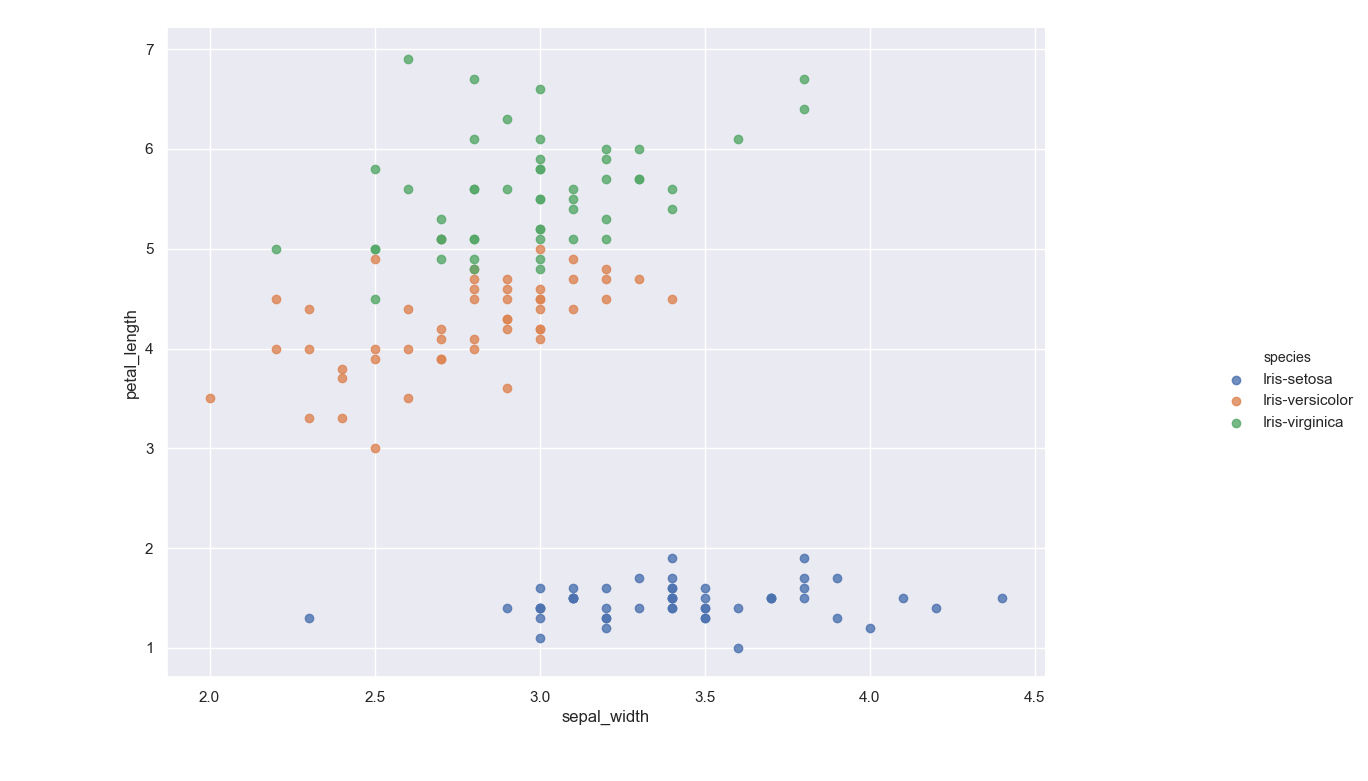
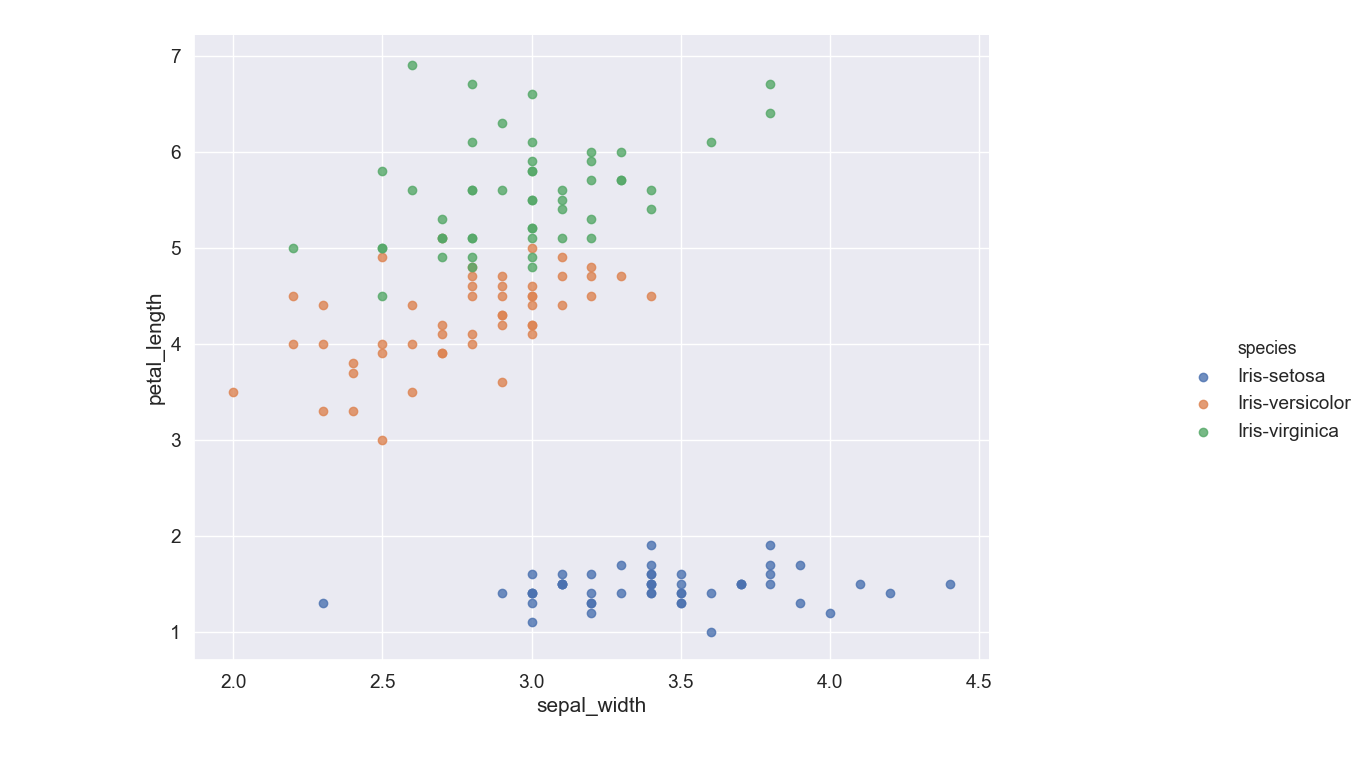
change label font size

diff --git a/analysis.py b/analysis.py
@@ -65,7 +65,7 @@ pet_len = iris_data['petal_length']
 pet_width = iris_data['petal_width']
 species = iris_data['species']
 
-
+'''
 # Write a function which outputs a histogram for each dataset variable and saves
 # it as a png file.
 # First for numeric variables
@@ -107,8 +107,8 @@ axs1.set(ylabel='frequency')
 
 axs2 = axs[0, 1]
 axs2.hist(sep_width, rwidth=0.9)
-axs2.set_title('Sepal_Width_Cm')
-axs2.set(ylabel='frequency')
+axs2.set_title('Sepal_Width_Cm', fontdict={'fontsize': 15})
+axs2.set(ylabel='frequency', fontdict={'fontsize': 15})
 
 axs3 = axs[1, 0]
 axs3.hist(pet_len, rwidth=0.9)
@@ -121,10 +121,10 @@ axs4.set_title('Petal_Width_Cm')
 axs4.set(ylabel='frequency')
 
 
-#plt.show()
+plt.show()
 plt.close()
 
-
+'''
 
 # C. Output a scatter plot of each pair of variables
 
@@ -140,7 +140,7 @@ plt.close()
 # Write a function which outputs a scatter plot of each pair of variables.
 # Each categorical variable (species of iris flower) is categorized by colour
 def scatter(x, y):
-    sns.set(style="darkgrid")
+    sns.set(style="darkgrid", font_scale=1.25)
     sns.lmplot(x, y, iris_data, fit_reg=False, hue='species')
     plt.show()
     plt.close()
